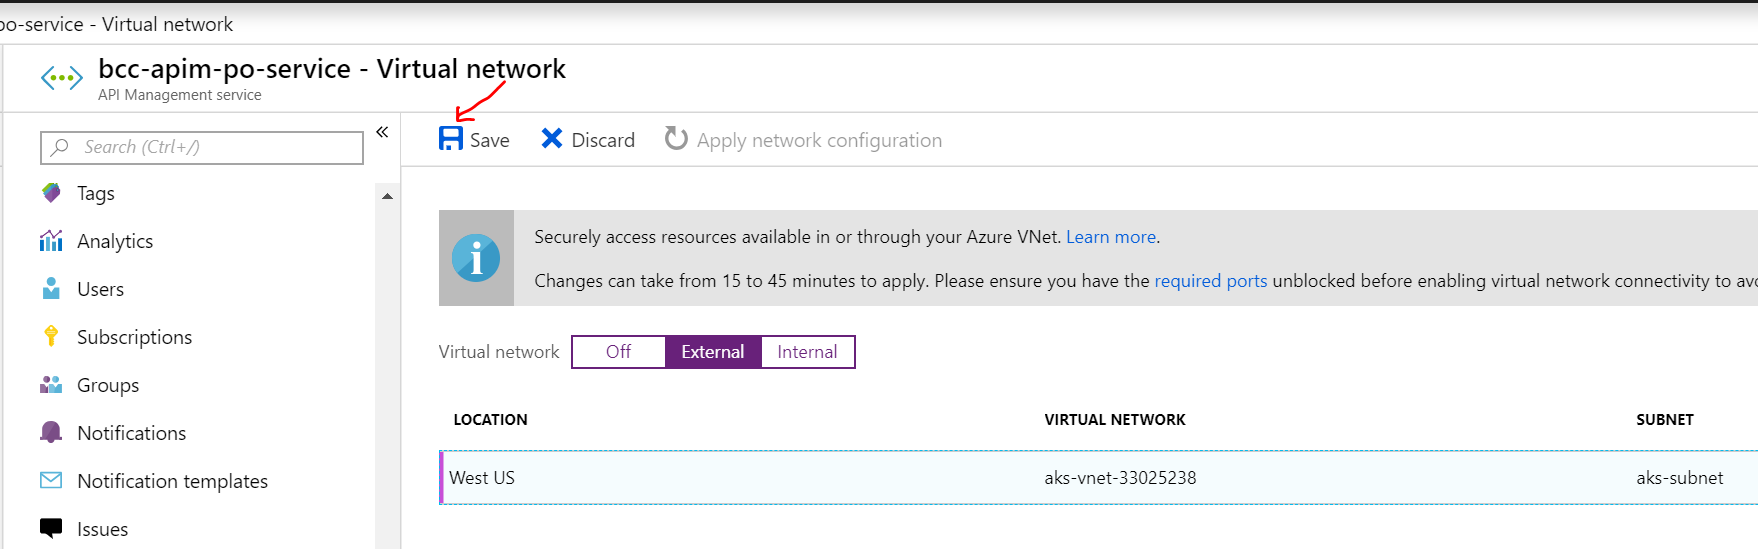
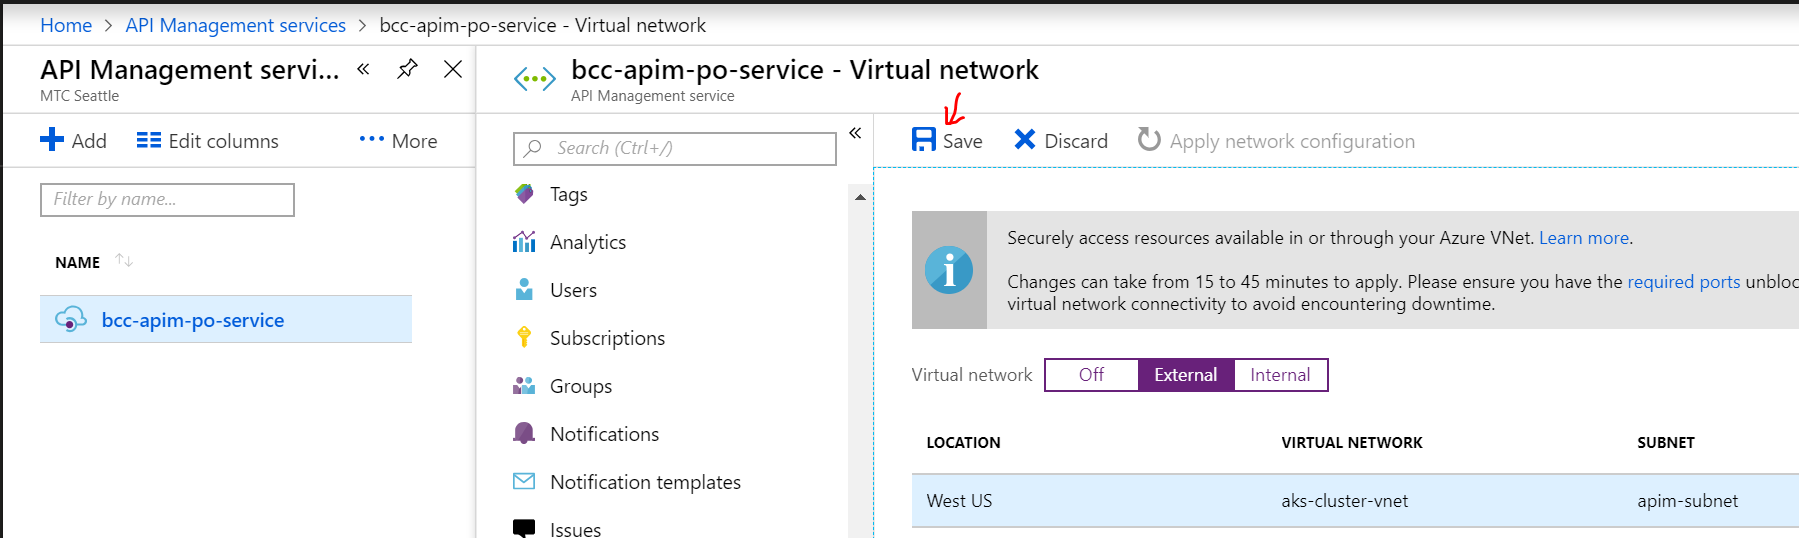
Updated Readme doc and images for azure-apim sub-project

diff --git a/extensions/azure-apim/README.md b/extensions/azure-apim/README.md
@@ -16,13 +16,15 @@ For easy and quick reference, readers can refer to the following on-line resourc
 **Important Notes:**
 
 ### A] Provision a new AKS cluster and configure advanced networking (Azure CNI)
-**Approx. time to complete this section: 30 Minutes**
+**Approx. time to complete this section: 45 Minutes**
 
 By default, AKS clusters use *Basic* networking which creates and configures a virtual network and subnet for the cluster nodes.  For this project, we will deploy an AKS cluster with *Advanced* networking option to allow us to configure APIM Service on the same subnet as the cluster.   The advanced networking option configures Azure CNI (Container networking interface) for the AKS cluster.  The end result is that Azure networking assigns IP addresses for all cluster nodes and pods.
 
 Login to [Azure Portal](https://portal.azure.com/).
 
-1. Create a */24* virtual network and subnet.  See screenshot below.
+1. Create a */24* virtual network *aks-cluster-vnet* and a */25* subnet *aks-cluster-subnet*.
+
+   The subnet *aks-cluster-subnet* will be used to allocate IP addressses for the AKS cluster nodes and pods.  See screenshot below.
 
    ![alt tag](./images/A-01.PNG)
 
@@ -30,42 +32,54 @@ Login to [Azure Portal](https://portal.azure.com/).
 
    ![alt tag](./images/A-02.PNG)
 
-2. Get the subnet resource ID.
+   Next, click on the VNET *aks-cluster-vnet* and create another */28* subnet *apim-subnet*.  This subnet will be used to allocate IP addresses for the APIM services.  See screenshots below.
 
-   The AKS cluster nodes will be deployed within the VNET and subnet created in the previous step. Login to the Linux VM (Bastion Host) for issuing all Azure CLI commands.
+   ![alt tag](./images/A-03.PNG)
+
+   ![alt tag](./images/A-04.PNG)
+
+   Click **OK**.  There should be two subnets in the *aks-cluster-vnet* VNET as shown in the figure below.
+
+   ![alt tag](./images/A-05.PNG)
+
+2. Get the resource ID for subnet *aks-cluster-subnet*
+
+   The AKS cluster nodes will be deployed within the subnet *aks-cluster-subnet*, created in the previous step.
+
+   Login to the Linux VM (Bastion Host) for issuing all Azure CLI commands.
 
    ```
    # Substitute correct values for 'Resource Group' and 'VNET' name
-   $ az network vnet subnet list --resource-group myResourceGroup --vnet-name aks-apim-vnet --query [].id --output tsv
+   $ az network vnet subnet list --resource-group myResourceGroup --vnet-name aks-cluster-vnet --query [].id --output tsv
    #
    ```
 
-   Save the subnet resource ID.  We will need it in the next step.
+   Save the resource ID for subnet **aks-cluster-subnet**.  We will need it in the next step.
 
 3. Create the AKS Cluster with *Advanced networking* (Azure CNI) option
 
-   Refer to the command snippet below to provision an AKS cluster.  Specify **azure** for the *--network-plugin* option to create an AKS cluster with advanced networking option (Azure CNI).  Also, make sure to specify the subnet resource ID value for parameter *--vnet-subnet-id*, the value which you saved in the previous step.
+   Refer to the command snippet below to provision an AKS cluster *aks-cluster-apim*.  Specify **azure** for the *--network-plugin* option to create an AKS cluster with advanced networking option (Azure CNI).  Also, make sure to specify the subnet resource ID value for parameter *--vnet-subnet-id*, the value which you saved in the previous step.
 
    ```
    # Retrieve k8s versions
    $ az aks get-versions
    #
    # Substitute correct values for 'Resource Group', 'Cluster Name' and '--vnet-subnet-id'.  Deploy ks8 v1.11.3 or specify another version.
-   $ az aks create --resource-group myResourceGroup --name aks-apim-cluster --network-plugin azure --vnet-subnet-id <subnet-id> --docker-bridge-address 172.17.0.1/16 --dns-service-ip 10.2.0.10 --service-cidr 10.2.0.0/24 --node-count 1 --kubernetes-version "1.11.3" --dns-name-prefix akslab2 --location westus --disable-rbac
+   $ az aks create --resource-group myResourceGroup --name aks-cluster-apim --network-plugin azure --vnet-subnet-id <subnet-id> --docker-bridge-address 172.17.0.1/16 --dns-service-ip 10.2.0.10 --service-cidr 10.2.0.0/24 --node-count 1 --kubernetes-version "1.11.3" --dns-name-prefix akslab2 --location westus --disable-rbac
    #
    ```
 
    The AKS cluster provisioning process will take approx. 5-10 minutes to complete.  Once the AKS cluster is up, there should be 1 node deployed within the cluster.  Use the command snippet below to connect and view the status of the cluster.
 
    ```
-   # Verify state of aks-apim-cluster
+   # Verify state of aks-cluster-apim AKS cluster
    $ az aks show -g myResourceGroup -n aks-apim-cluster --output table
      Name              Location    ResourceGroup     KubernetesVersion    ProvisioningState    Fqdn
      ----------------  ----------  ----------------  -------------------  -------------------  -------------------------------------
-     aks-apim-cluster  westus      mtcs-dev-grts-rg  1.11.3               Succeeded            akslab2-a70564cc.hcp.westus.azmk8s.io
+     aks-cluster-apim  westus      mtcs-dev-grts-rg  1.11.3               Succeeded            akslab2-a70564cc.hcp.westus.azmk8s.io
    #
    # Connect to the AKS cluster.  Substitute correct values for 'Resource Group' and 'AKS Cluster Name'
-   $ az aks get-credentials --resource-group myResourceGroup --name aks-apim-cluster
+   $ az aks get-credentials --resource-group myResourceGroup --name aks-cluster-apim
    #
    # Retrieve cluster info.
    $ kubectl cluster-info
@@ -94,17 +108,30 @@ The internal ingress controller will expose ports 80 and 443 and provide a singl
    #
    # Verify 'Tiller' is running in the 'kube-system' namespace.  Output should list a pod ('tiller-deploy...') in 'RUNNING' state.
    $ kubectl get pods -n kube-system
+     NAME                                    READY     STATUS    RESTARTS   AGE
+     azure-cni-networkmonitor-wqv7r          1/1       Running   0          9m
+     heapster-7b74498c4b-ht69z               2/2       Running   0          5m
+     kube-dns-v20-54f74f4458-2zjjf           3/3       Running   0          14m
+     kube-dns-v20-54f74f4458-k9kfs           3/3       Running   0          14m
+     kube-proxy-wlg2d                        1/1       Running   0          9m
+     kube-svc-redirect-86xpd                 2/2       Running   0          9m
+     kubernetes-dashboard-5845b66748-gfmt2   1/1       Running   1          14m
+     metrics-server-76f76c6bfd-qrs7j         1/1       Running   1          14m
+     tiller-deploy-597c48f967-bmf5w          1/1       Running   0          23s
+     tunnelfront-b595dc468-tjvwz             1/1       Running   0          14m
    #
    ```
 
-2. Review and then deploy the Kubernetes *Service* manifest file `./k8s-resources/internal-lb.yaml`.  Refer to the command snippet below.
+2. Create an ingress controller and ALB
+
+   Review the helm parameter values file `./k8s-resources/internal-ingress.yaml`.  This file will be passed in to the helm *install* command.  Refer to the command snippet below to deploy the ingress controller.
   
    ```
    # Make sure you are in the 'azure-apim' directory
    $ cd ./extensions/azure-apim
    #
    # Deploy the k8s service for internal lb.
-   $ kubectl apply -f ./k8s-resources/internal-lb.yaml
+   $ helm install stable/nginx-ingress --namespace kube-system -f ./k8s-resources/internal-ingress.yaml
    #
    # List the helm releases
    $ helm list
@@ -112,8 +139,9 @@ The internal ingress controller will expose ports 80 and 443 and provide a singl
      NAME            REVISION        UPDATED                         STATUS          CHART                   NAMESPACE
      iced-zorse      1               Tue Nov  6 16:30:16 2018        DEPLOYED        nginx-ingress-0.30.0    kube-system
    #
+   # List the services deployed in 'kube-system' namespace.  The ALB's IP address should be listed under column
+   # 'EXTERNAL-IP' and the ingress controller's service IP should be under column 'CLUSTER_IP'.
    $ kubectl get svc -n kube-system
-     $ kubectl get svc -n kube-systemespace kube-
      NAME                                       TYPE           CLUSTER-IP   EXTERNAL-IP   PORT(S)                      AGE
      heapster                                   ClusterIP      10.2.0.142   <none>        80/TCP                       3h
      iced-zorse-nginx-ingress-controller        LoadBalancer   10.2.0.17    10.0.0.35     80:32598/TCP,443:30758/TCP   3m
@@ -124,7 +152,10 @@ The internal ingress controller will expose ports 80 and 443 and provide a singl
      tiller-deploy                              ClusterIP      10.2.0.136   <none>        44134/TCP                    2h
    #
    ```
-   Use the *Load Balancers* blade in the Azure Portal to view the properties of the internal ALB.  See screenshots below.
+
+   A private IP address from the *aks-cluster-subnet* is assigned to the *Azure Load Balancer* as listed under the **EXTERNAL-IP** column in the command output above.  The ingress controller's *Service* IP address is listed under column **CLUSTER-IP'.
+
+   Use the *Load Balancers* blade in the Azure Portal to view all the properties of the internal ALB.  See screenshots below.
 
    ![alt tag](./images/B-01.PNG)
 
@@ -151,7 +182,7 @@ In this section, we will provision and configure an Azure API Management Service
 
    Click on **Create**.  The APIM service will take a few minutes to get provisioned.
 
-2. Connect APIM Service to the AKS Virtual Network
+2. Connect APIM Service to the AKS Virtual Network subnet *apim-subnet*
 
    The APIM service has to be deployed in the AKS virtual network (VNET), so it can access the API's exposed by the *po-service* microservice.
 
@@ -159,7 +190,7 @@ In this section, we will provision and configure an Azure API Management Service
 
    ![alt tag](./images/C-04.PNG)
 
-   Click on the **External** button.  Verify and make sure the **Location** field displays the *Region* in which the AKS cluster is deployed.  Click on the field below **VIRTUAL NETWORK** and select the VNET and **Subnet** used by the AKS cluster nodes.  Click **Apply**.  See screenshot below.
+   Click on the **External** button.  Verify and make sure the **Location** field displays the *Region* in which the AKS cluster is deployed.  Click on the field below **VIRTUAL NETWORK** and select the VNET **aks-cluster-vnet** and subnet **apim-subnet** created in Section A.  Click **Apply**.  See screenshot below.
 
    ![alt tag](./images/C-05.PNG)
 
